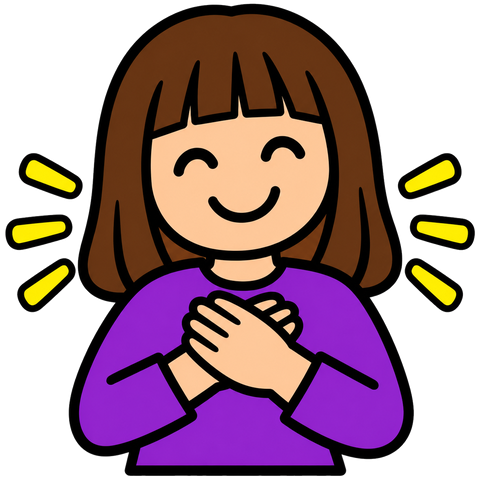
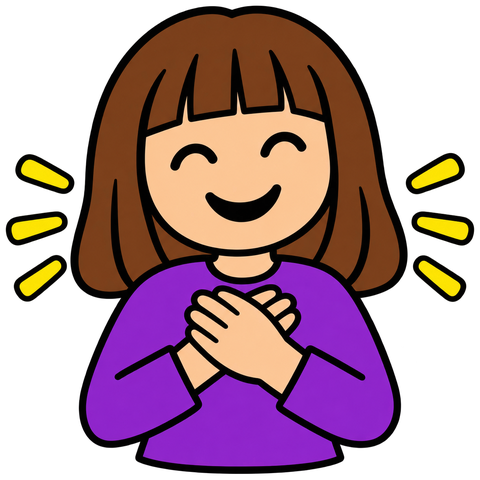
Trick or Treat talk: use transparent Thank you picture
Claude-Session: https://claude.ai/code/session_018ENZqU8JiFokkufnqZqKaW

Changed region(s): [[0.0, 0.0, 1.0, 1.0], [0.4062, 0.375, 0.5938, 0.4688], [0.4688, 0.0938, 0.5, 0.1562]]

diff --git a/trick-or-treat/sw.js b/trick-or-treat/sw.js
@@ -1,4 +1,4 @@
-const CACHE = "tot-talk-v2";
+const CACHE = "tot-talk-v3";
 const FILES = ["./", "./index.html", "./manifest.json", "./img/trick.png", "./img/thanks.png", "./icon-192.png", "./icon-512.png"];
 self.addEventListener("install", e => { e.waitUntil(caches.open(CACHE).then(c => c.addAll(FILES))); self.skipWaiting(); });
 self.addEventListener("activate", e => {
